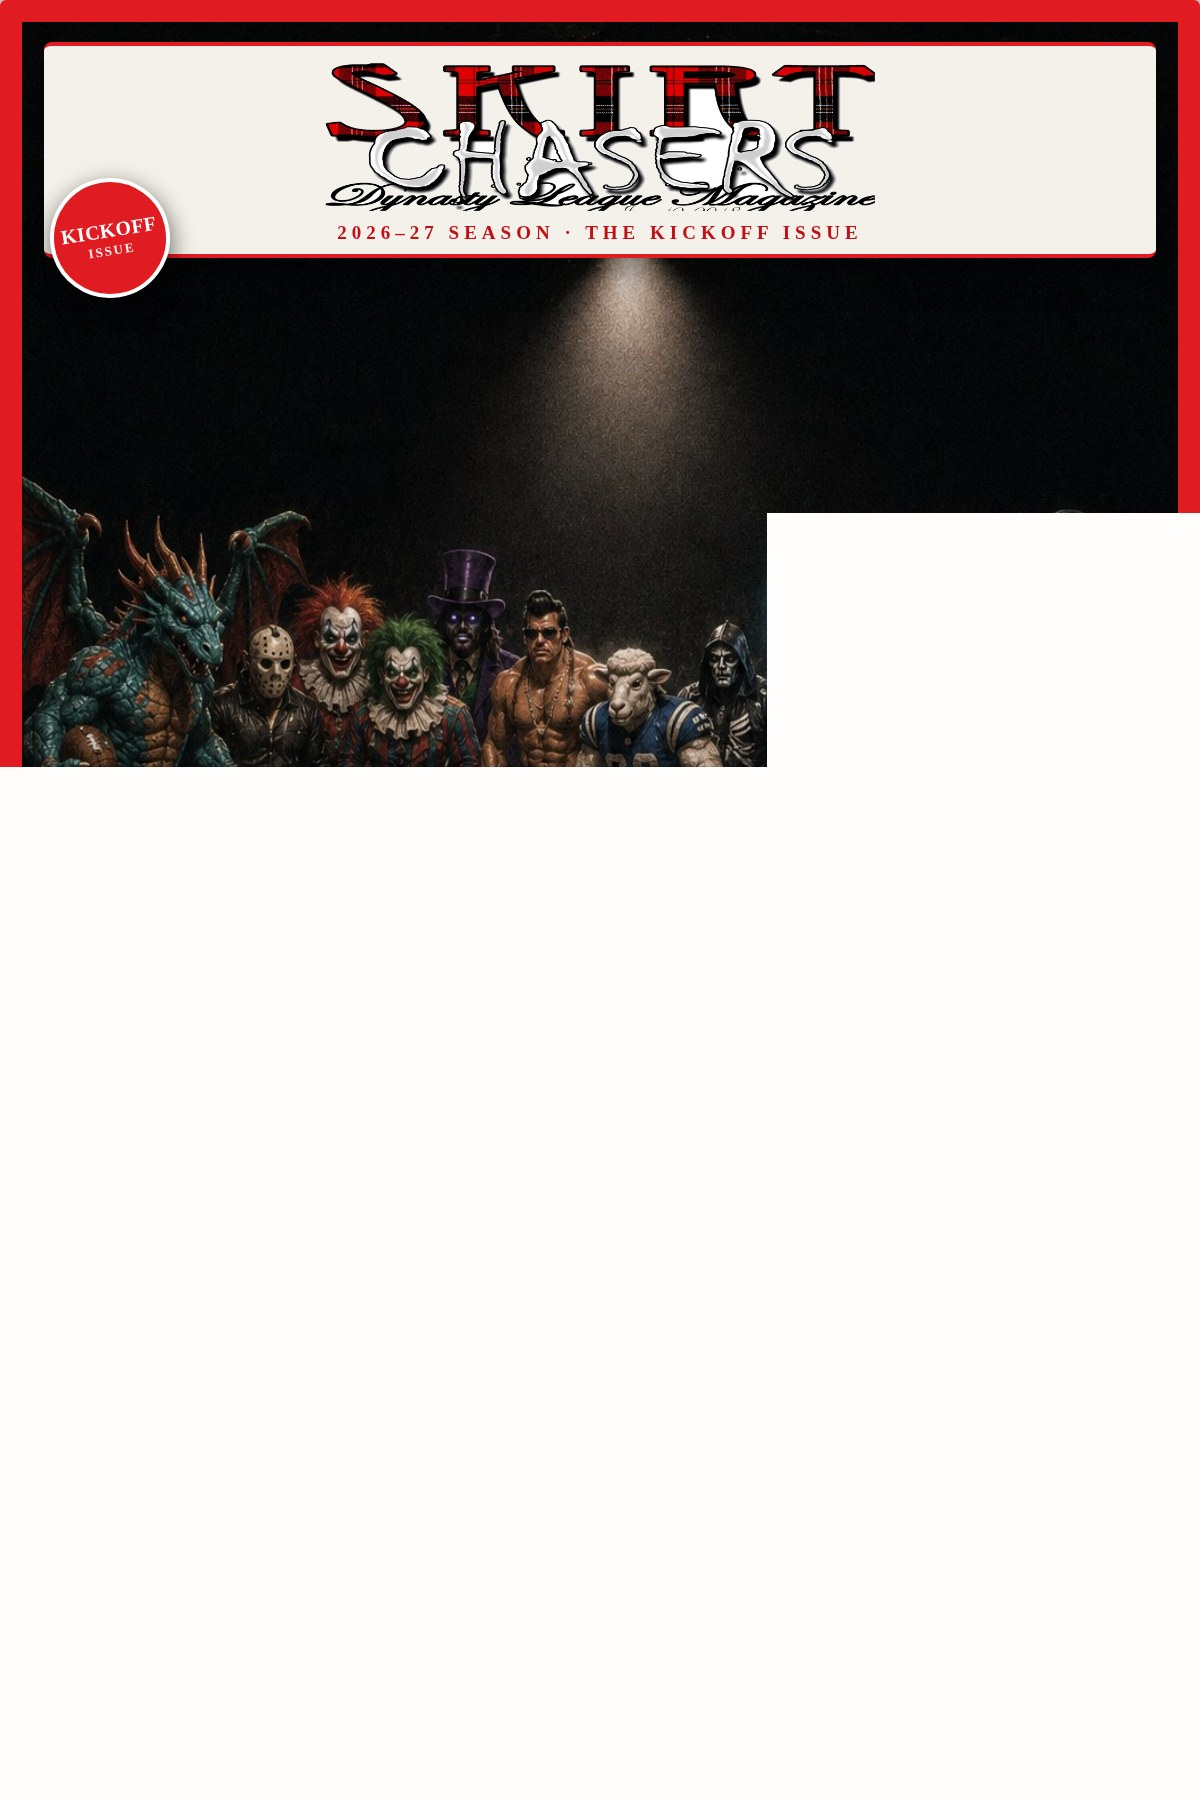
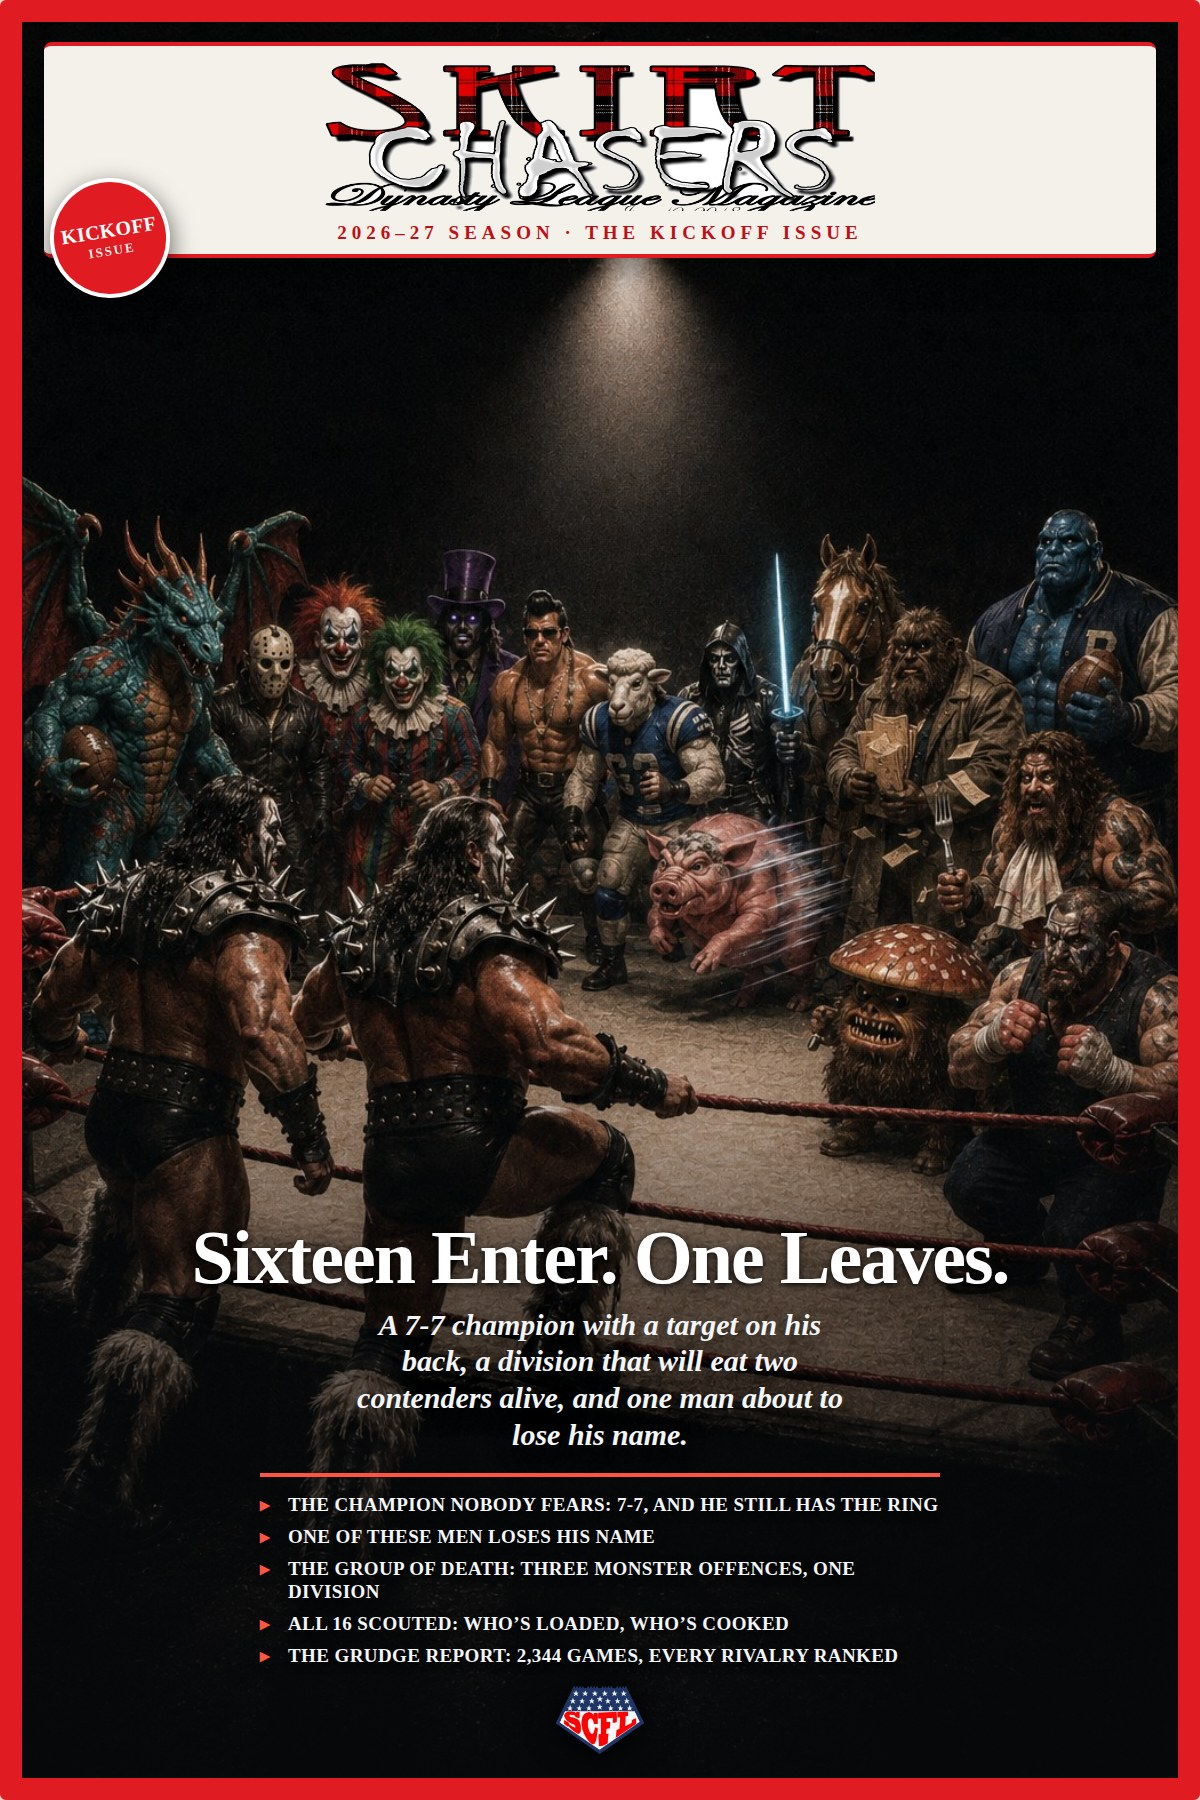
Render the preview card from the cover alone
The opener images broke the card. Screenshotting the cover inside the
issue worked at 32 pages; at 37 pages each carrying an opener image
Chromium stops rasterizing partway down and the bottom third of the card
came back blank -- and it shipped, because the old guard only checked file
size and a two-thirds-painted cover is a perfectly ordinary-sized JPG.

Now the cover markup and the stylesheet are lifted out of the built issue
and rendered on their own page, which paints fully every time and is much
faster. The card still comes from the issue's own cover, so it cannot
drift from it.

The guard now checks pixels instead of bytes: below the masthead panel the
cover is dark edge to edge, so more than a few percent of blank there
fails the build. Calibrated against a correct render, which is 0.0%.

diff --git a/scripts/build_og.py b/scripts/build_og.py
@@ -5,79 +5,105 @@
 
 The card IS the cover -- red frame, wordmark panel, issue seal, hook,
 coverlines and shield -- flattened to a 1200x1800 JPG, the same as
-draft-issue-og.jpg. Screenshots the built issue page's .magcover element,
-so the card can never drift from the cover: change a coverline, rebuild,
-and the preview changes with it.
+draft-issue-og.jpg.
+
+Lifts the cover markup and the stylesheet straight out of the built issue and
+renders that alone, so the card cannot drift from the cover: change a
+coverline, rebuild, and the preview changes with it. Rendering the cover in
+isolation rather than screenshotting it inside the issue matters -- see the
+capture notes below.
 
 Run scripts/build_issue.py first.
 """
-import importlib.util, json, os, subprocess, sys, tempfile
+import importlib.util, json, os, re, subprocess, sys, tempfile
 
 ROOT = os.path.dirname(os.path.dirname(os.path.abspath(__file__)))
 BROWSER = '/opt/pw-browsers/chromium'
 W, H = 1200, 1800
+ZOOM = 2                      # .magcover is capped at 600px; 600x900 x2 = 1200x1800
 
 spec = importlib.util.spec_from_file_location('bi', os.path.join(ROOT, 'scripts', 'build_issue.py'))
 bi = importlib.util.module_from_spec(spec)
 spec.loader.exec_module(bi)
 
-# Two things here are load-bearing, both learned the hard way.
+# Capture notes, both learned the hard way:
 #
 # 1. deviceScaleFactor must stay 1. At 2 the cover's background art never paints
-#    and the capture comes out as the page's bare grey ground -- silently, with no
-#    error. elementHandle.screenshot(), screenshot({clip}) and a full-viewport
-#    capture all reproduce it, and forcing an Image().decode() first does not help.
-#    Full size is reached with CSS zoom instead, which scales the whole cover --
-#    art, type and all -- so proportions match the cover exactly.
-# 2. Capture the viewport and crop in PIL rather than screenshotting the element.
+#    and the capture comes out as bare grey ground -- silently, no error.
+#    Full size comes from CSS zoom instead, which scales art and type together.
+# 2. Do not screenshot the cover inside the issue page. Chromium stops
+#    rasterizing partway down a 37-page document carrying an opener image per
+#    article, and the bottom third of the cover comes back blank. Rendering the
+#    cover on its own page sidesteps it entirely and is much faster.
+PAGE = """<style>%s</style>
+<style>
+html,body{margin:0;padding:0;width:%dpx;height:%dpx;overflow:hidden;background:#d9d6ce;}
+.wrap{zoom:%d;}
+.magcover{margin:0 !important;box-shadow:none !important;}
+</style>
+<div class="wrap">%s</div>"""
+
 SHOT = """const {chromium}=require('playwright');
 (async()=>{
 const b=await chromium.launch({executablePath:'%s'});
-const p=await b.newPage({viewport:{width:1400,height:2000},deviceScaleFactor:1});
+const p=await b.newPage({viewport:{width:%d,height:%d},deviceScaleFactor:1});
 await p.goto('file://%s',{waitUntil:'load'});
-await p.waitForTimeout(800);
-const el=await p.$('.magcover');
-if(!el){console.error('no .magcover on the page');process.exit(2);}
-await p.addStyleTag({content:'.cover-page{zoom:%d !important}'});
+await p.evaluate(async ()=>{
+  await document.fonts.ready;
+  const bg=getComputedStyle(document.querySelector('.magcover')).backgroundImage;
+  const m=bg.match(/url\\(["']?(.+?)["']?\\)/);
+  const urls=Array.from(document.images).map(i=>i.src).concat(m?[m[1]]:[]);
+  await Promise.all(urls.map(u=>{const i=new Image();i.src=u;return i.decode().catch(()=>null);}));
+});
 await p.waitForTimeout(700);
-const box=await el.boundingBox();
-console.log(JSON.stringify(box));
 await p.screenshot({path:'%s'});
 await b.close();
 })();"""
-ZOOM = 2
 
 
 def build(key):
     cfg = bi.ISSUES[key]
-    page = os.path.join(ROOT, cfg['out'])
-    if not os.path.exists(page):
+    src = os.path.join(ROOT, cfg['out'])
+    if not os.path.exists(src):
         sys.exit(f"{cfg['out']} not built yet -- run scripts/build_issue.py first")
+    html = open(src, encoding='utf-8').read()
 
+    css = re.search(r'<style>(.*?)</style>', html, re.S)
+    cover = re.search(r'<section class="page cover-page">(.*?)</section>', html, re.S)
+    if not css or not cover:
+        sys.exit(f"could not find the cover or the stylesheet in {cfg['out']}")
+
+    # Same directory as the issue, so the cover art's relative URL still resolves.
+    tmp = os.path.join(ROOT, '.og-cover.html')
+    open(tmp, 'w', encoding='utf-8').write(
+        PAGE % (css.group(1), W, H, ZOOM, cover.group(1)))
     raw = os.path.join(tempfile.gettempdir(), f'og-{key}.png')
     js = os.path.join(tempfile.gettempdir(), f'og-{key}.js')
-    open(js, 'w').write(SHOT % (BROWSER, page, ZOOM, raw))
+    open(js, 'w').write(SHOT % (BROWSER, W, H, tmp, raw))
     try:
         env = dict(os.environ, NODE_PATH='/opt/node22/lib/node_modules')
-        out = subprocess.run(['node', js], check=True, env=env, cwd=ROOT,
-                             capture_output=True, text=True)
-        box = json.loads(out.stdout.strip().splitlines()[-1])
+        subprocess.run(['node', js], check=True, env=env, cwd=ROOT, capture_output=True)
         from PIL import Image
-        im = Image.open(raw).convert('RGB').crop((
-            round(box['x']), round(box['y']),
-            round(box['x'] + box['width']), round(box['y'] + box['height'])))
-        print(f"  cover captured at {im.width}x{im.height}")
+        im = Image.open(raw).convert('RGB')
         if im.size != (W, H):
+            print(f'  note: captured {im.width}x{im.height}, resizing to {W}x{H}')
             im = im.resize((W, H), Image.LANCZOS)
+
+        # A half-painted capture is still a valid JPG, so check pixels rather than
+        # file size. Below the wordmark panel the cover is dark edge to edge, so
+        # any real amount of blank there means the render did not finish.
+        g = im.convert('L').crop((0, int(H * 0.18), W, H)).resize((100, 150))
+        blank = sum(1 for v in g.get_flattened_data() if v > 235) / (100 * 150)
+        if blank > 0.03:
+            sys.exit(f'  !! {cfg["og"]} is {blank:.0%} blank below the masthead -- '
+                     f'the cover rendered only partly; not shipping it')
+
         dst = os.path.join(ROOT, cfg['og'])
         im.save(dst, 'JPEG', quality=88, optimize=True, progressive=True)
-        kb = os.path.getsize(dst) // 1024
-        if kb < 120:
-            sys.exit(f'  !! {cfg["og"]} came out {kb}kb -- the art almost certainly '
-                     f'did not render; not shipping a blank cover')
-        print(f"wrote {cfg['og']} {W}x{H} {kb}kb | {cfg['hook']}")
+        print(f"wrote {cfg['og']} {W}x{H} {os.path.getsize(dst)//1024}kb "
+              f"| {blank:.1%} blank | {cfg['hook']}")
     finally:
-        for f in (js, raw):
+        for f in (js, raw, tmp):
             if os.path.exists(f):
                 os.remove(f)
 
